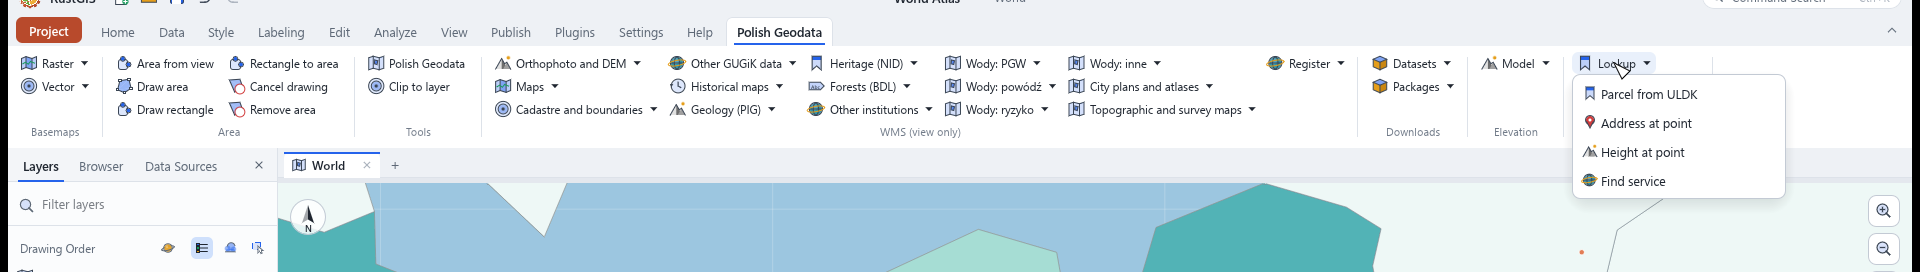
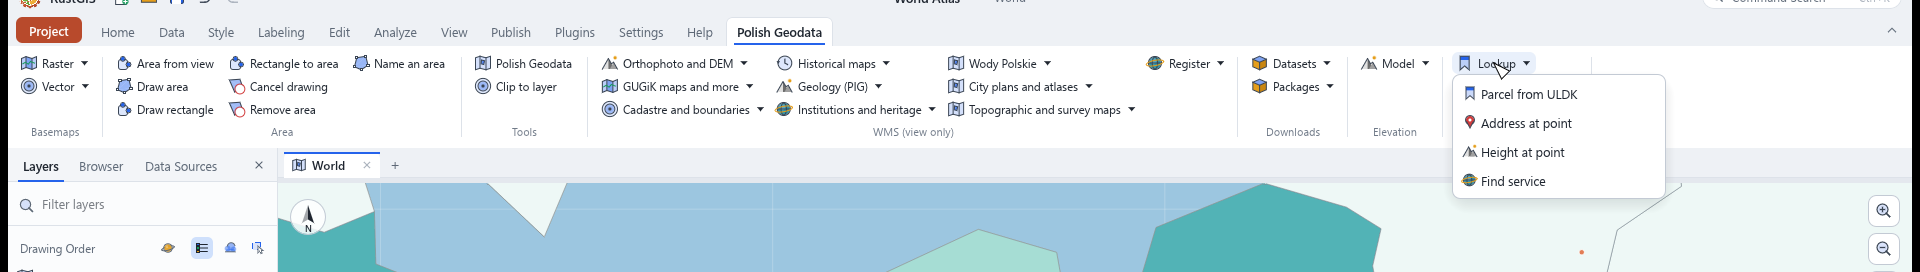
Ten WMS menus instead of sixteen, so the ribbon keeps two rows
The Wody Polskie services share one menu of 32, the heritage and forest services join the institutions menu of 17, and the two GUGiK data menus merge into one of 32. The registry accepts the tab, and the tab fits a 1920 window without its scroll arrow.

diff --git a/tools/manifest.py b/tools/manifest.py
@@ -179,6 +179,11 @@ def wrapped(label, width=LABEL_WIDTH):
 
 def wody_folders(meta, wody, literal):
     """The Wody Polskie folders of 'More maps': PGW, flood, risk, then a bucket for a new family."""
+    # One menu holds all of them when they fit, so the ribbon keeps its rows.
+    if len(wody) <= MAX_MENU_ITEMS:
+        label = meta["wody"]
+        literal.add(label)
+        return [{"menu": label, "icon": "map", "items": sorted(command["id"] for command in wody)}]
     buckets = {}
     for command in wody:
         buckets.setdefault(wody_folder(command["id"]), []).append(command["id"])
@@ -487,8 +492,10 @@ def build():
 
     # The institution lives on each catalogue entry, so no list here can drift from the catalogue.
     by_institution = {}
+    merge = base.get("menuMerge", {})
     for service in services:
         key = service.get("institutionMenu") or service.get("institution")
+        key = merge.get(key, key)
         if not key:
             raise Bad(f"data/services.json: {service['id']} names no institution")
         by_institution.setdefault(key, []).append(service["cmd"])
@@ -506,7 +513,7 @@ def build():
         menus[key] = {**meta, "items": sorted(cmds)}
     # A `children` menu is a folder on the ribbon: GUGiK holds four themes, one trigger not four.
     folders = {key: meta for key, meta in base["institutionMenus"].items() if "children" in meta}
-    stale = [key for key in base["institutionMenus"] if key not in menus and key not in folders]
+    stale = [key for key in base["institutionMenus"] if key not in menus and key not in folders and key not in merge]
     if stale:
         raise Bad(f"menu '{stale[0]}' has no service in the catalogue")
     for key, meta in folders.items():

diff --git a/README.md b/README.md
@@ -24,8 +24,8 @@ Data names stay as they are published, so the tab reads the same in either langu
 
 ![The same tab in English](assets/tab-en.png)
 
-The same tab in English, zoomed to Poland: sixteen WMS menus, the downloads, the elevation models and
-the lookups sit in one row.
+The same tab in English, zoomed to Poland: ten WMS menus, the downloads, the elevation models and the
+lookups sit in two rows.
 
 ![The Orthophoto and DEM menu](assets/wms-en.png)
 
@@ -77,7 +77,7 @@ RustGIS 0.5.0 or newer.
 | **Basemaps** | 4 raster maps and 4 vector overlays: orthophoto, BDOT10k, parcels, addresses, boundaries |
 | **Area** | area from the view, draw, rectangle, adopt, cancel, remove |
 | **Tools** | the panel and the clip to a boundary |
-| **WMS overlays** | GUGiK (76), historical maps (11), PIG geology (11), NID (4), BDL (4), other institutions (IMGW 4, GUS 2), **More maps** (Wody Polskie 32, Cartomatic 45), **Register** (6) |
+| **WMS overlays** | ten menus: GUGiK (76 through three menus), historical maps (11), PIG geology (11), institutions and heritage (17), Wody Polskie (32), Cartomatic (45 through two menus), Register (6) |
 | **Downloads** | six WFS tools, four package tools, protected areas (GDOŚ), the county EGiB, any register WFS |
 | **Elevation** | three elevation models, a look switch, 3D terrain and its switch off |
 | **Lookups** | parcel, address, height, find a service, update the register, obręby, the view's register |
